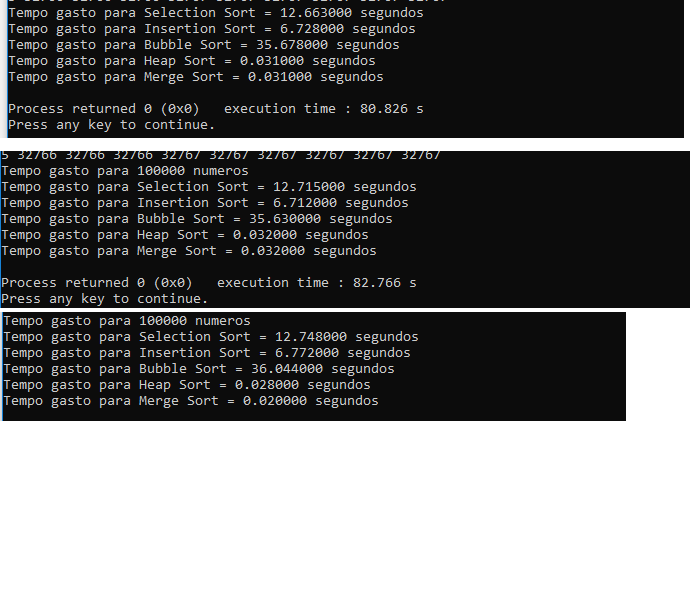
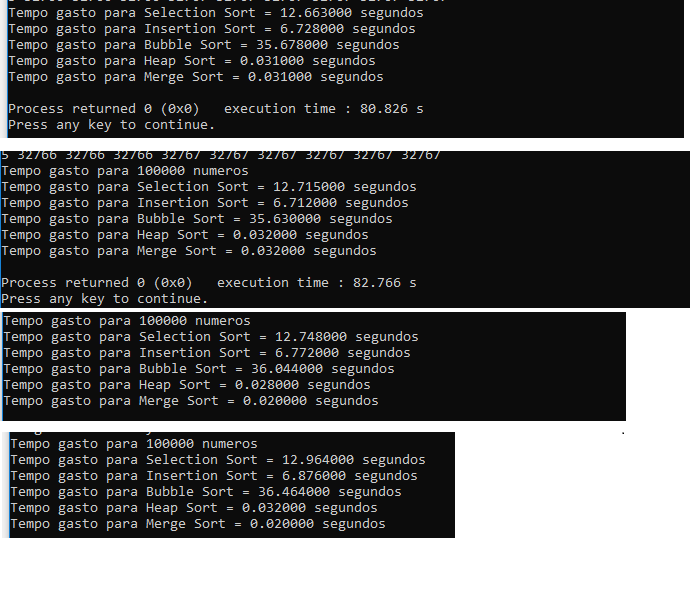
sem printar cada array ordenado

Changed region(s): [[0.0, 0.7261, 0.6686, 0.9076]]

diff --git a/SortsDiferentes.c b/SortsDiferentes.c
@@ -138,7 +138,7 @@ int main(){
 	selectionSort(arr, n);
     clock_t end = clock();
 	printf("Sorted array: \n");
-	printArray(arr, n);
+	//printArray(arr, n);
     time_selection +=(double)(end - begin)/CLOCKS_PER_SEC;
 
     for (temp = 0;temp<n;temp++){
@@ -150,7 +150,7 @@ int main(){
 	insertionSort(arr, n);
     end = clock();
 	printf("Sorted array: \n");
-	printArray(arr, n);
+	//printArray(arr, n);
     time_insertion +=(double)(end - begin)/CLOCKS_PER_SEC;
 
     for (temp = 0;temp<n;temp++){
@@ -162,7 +162,7 @@ int main(){
 	bubbleSort(arr, n);
     end = clock();
 	printf("Bubble Sorted array: \n");
-	printArray(arr, n);
+	//printArray(arr, n);
     time_bubble +=(double)(end - begin)/CLOCKS_PER_SEC;
 
     for (temp = 0;temp<n;temp++){
@@ -174,7 +174,7 @@ int main(){
 	heapSort(arr, n);
     end = clock();
 	printf("Heap Sorted array: \n");
-	printArray(arr, n);
+	//printArray(arr, n);
     time_heapy +=(double)(end - begin)/CLOCKS_PER_SEC;
 
     for (temp = 0;temp<n;temp++){
@@ -186,9 +186,10 @@ int main(){
 	mergeSort(arr,0, n);
     end = clock();
 	printf("Merge Sorted array: \n");
-	printArray(arr, n);
+	//printArray(arr, n);
     time_merge +=(double)(end - begin)/CLOCKS_PER_SEC;
 
+    printArray(arr, n);
     printf("Tempo gasto para %d numeros\n",n);
     printf("Tempo gasto para Selection Sort = %f segundos\n",time_selection);
     printf("Tempo gasto para Insertion Sort = %f segundos\n",time_insertion);
